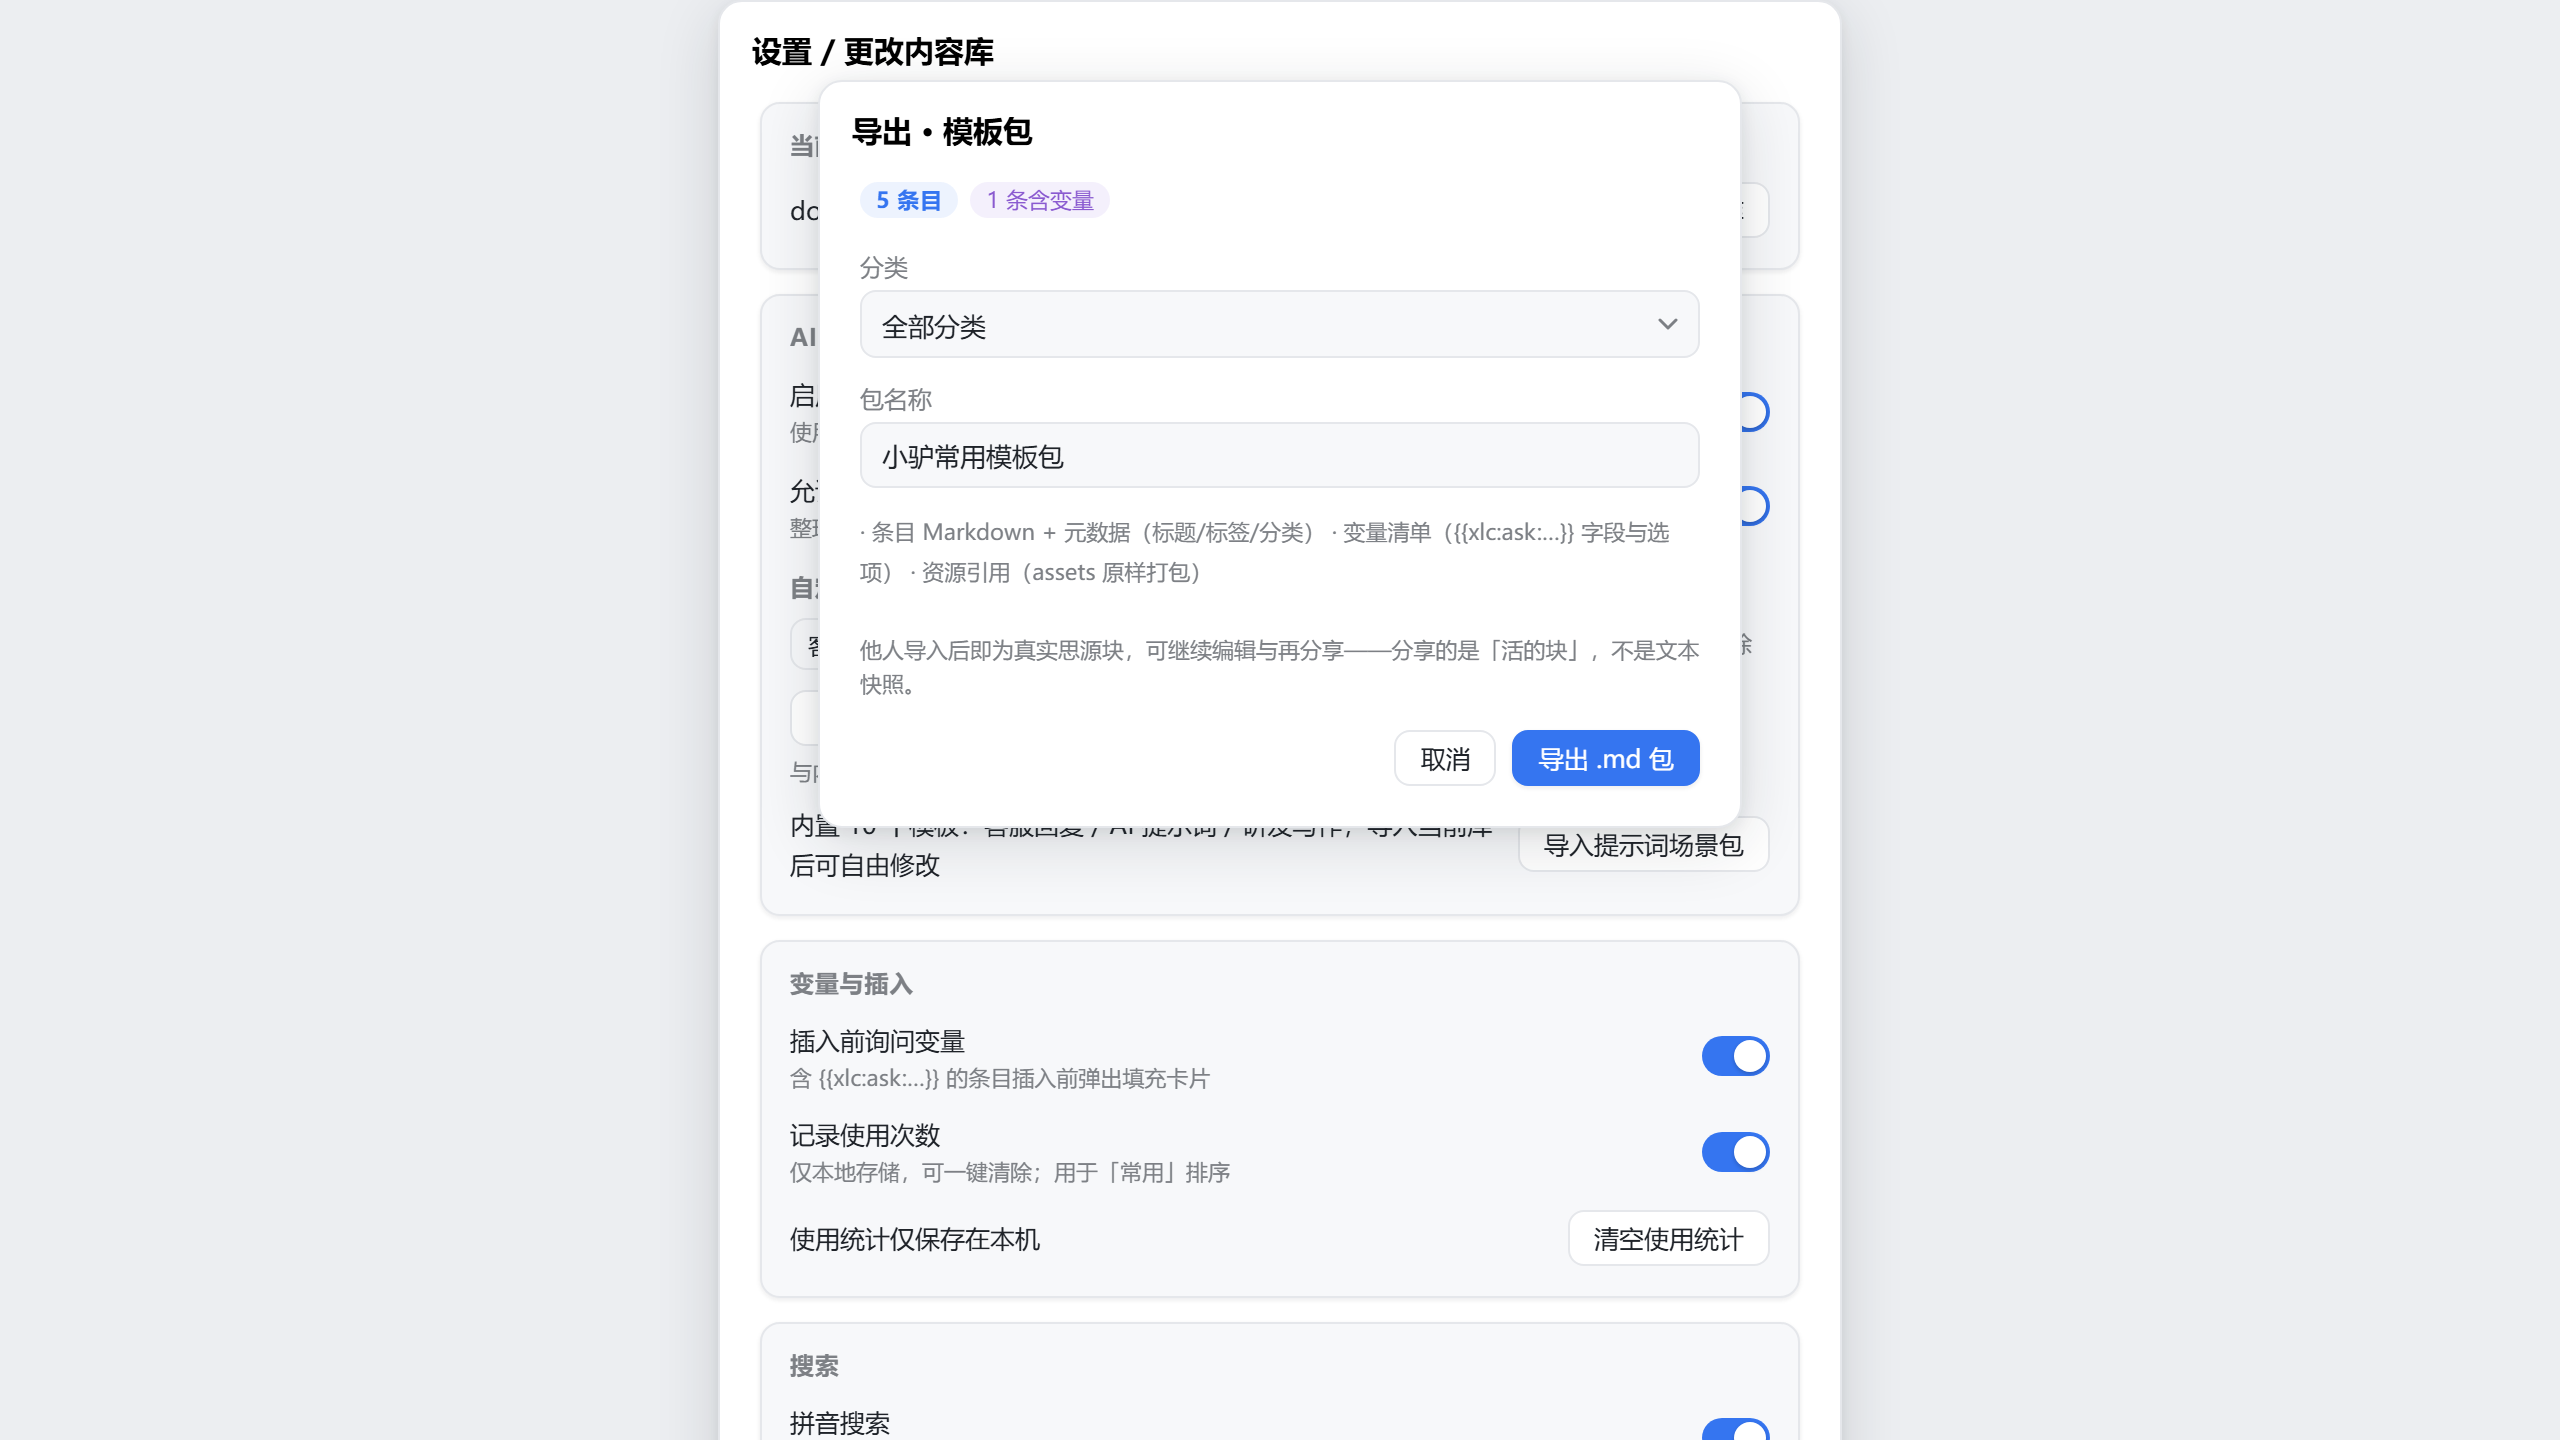
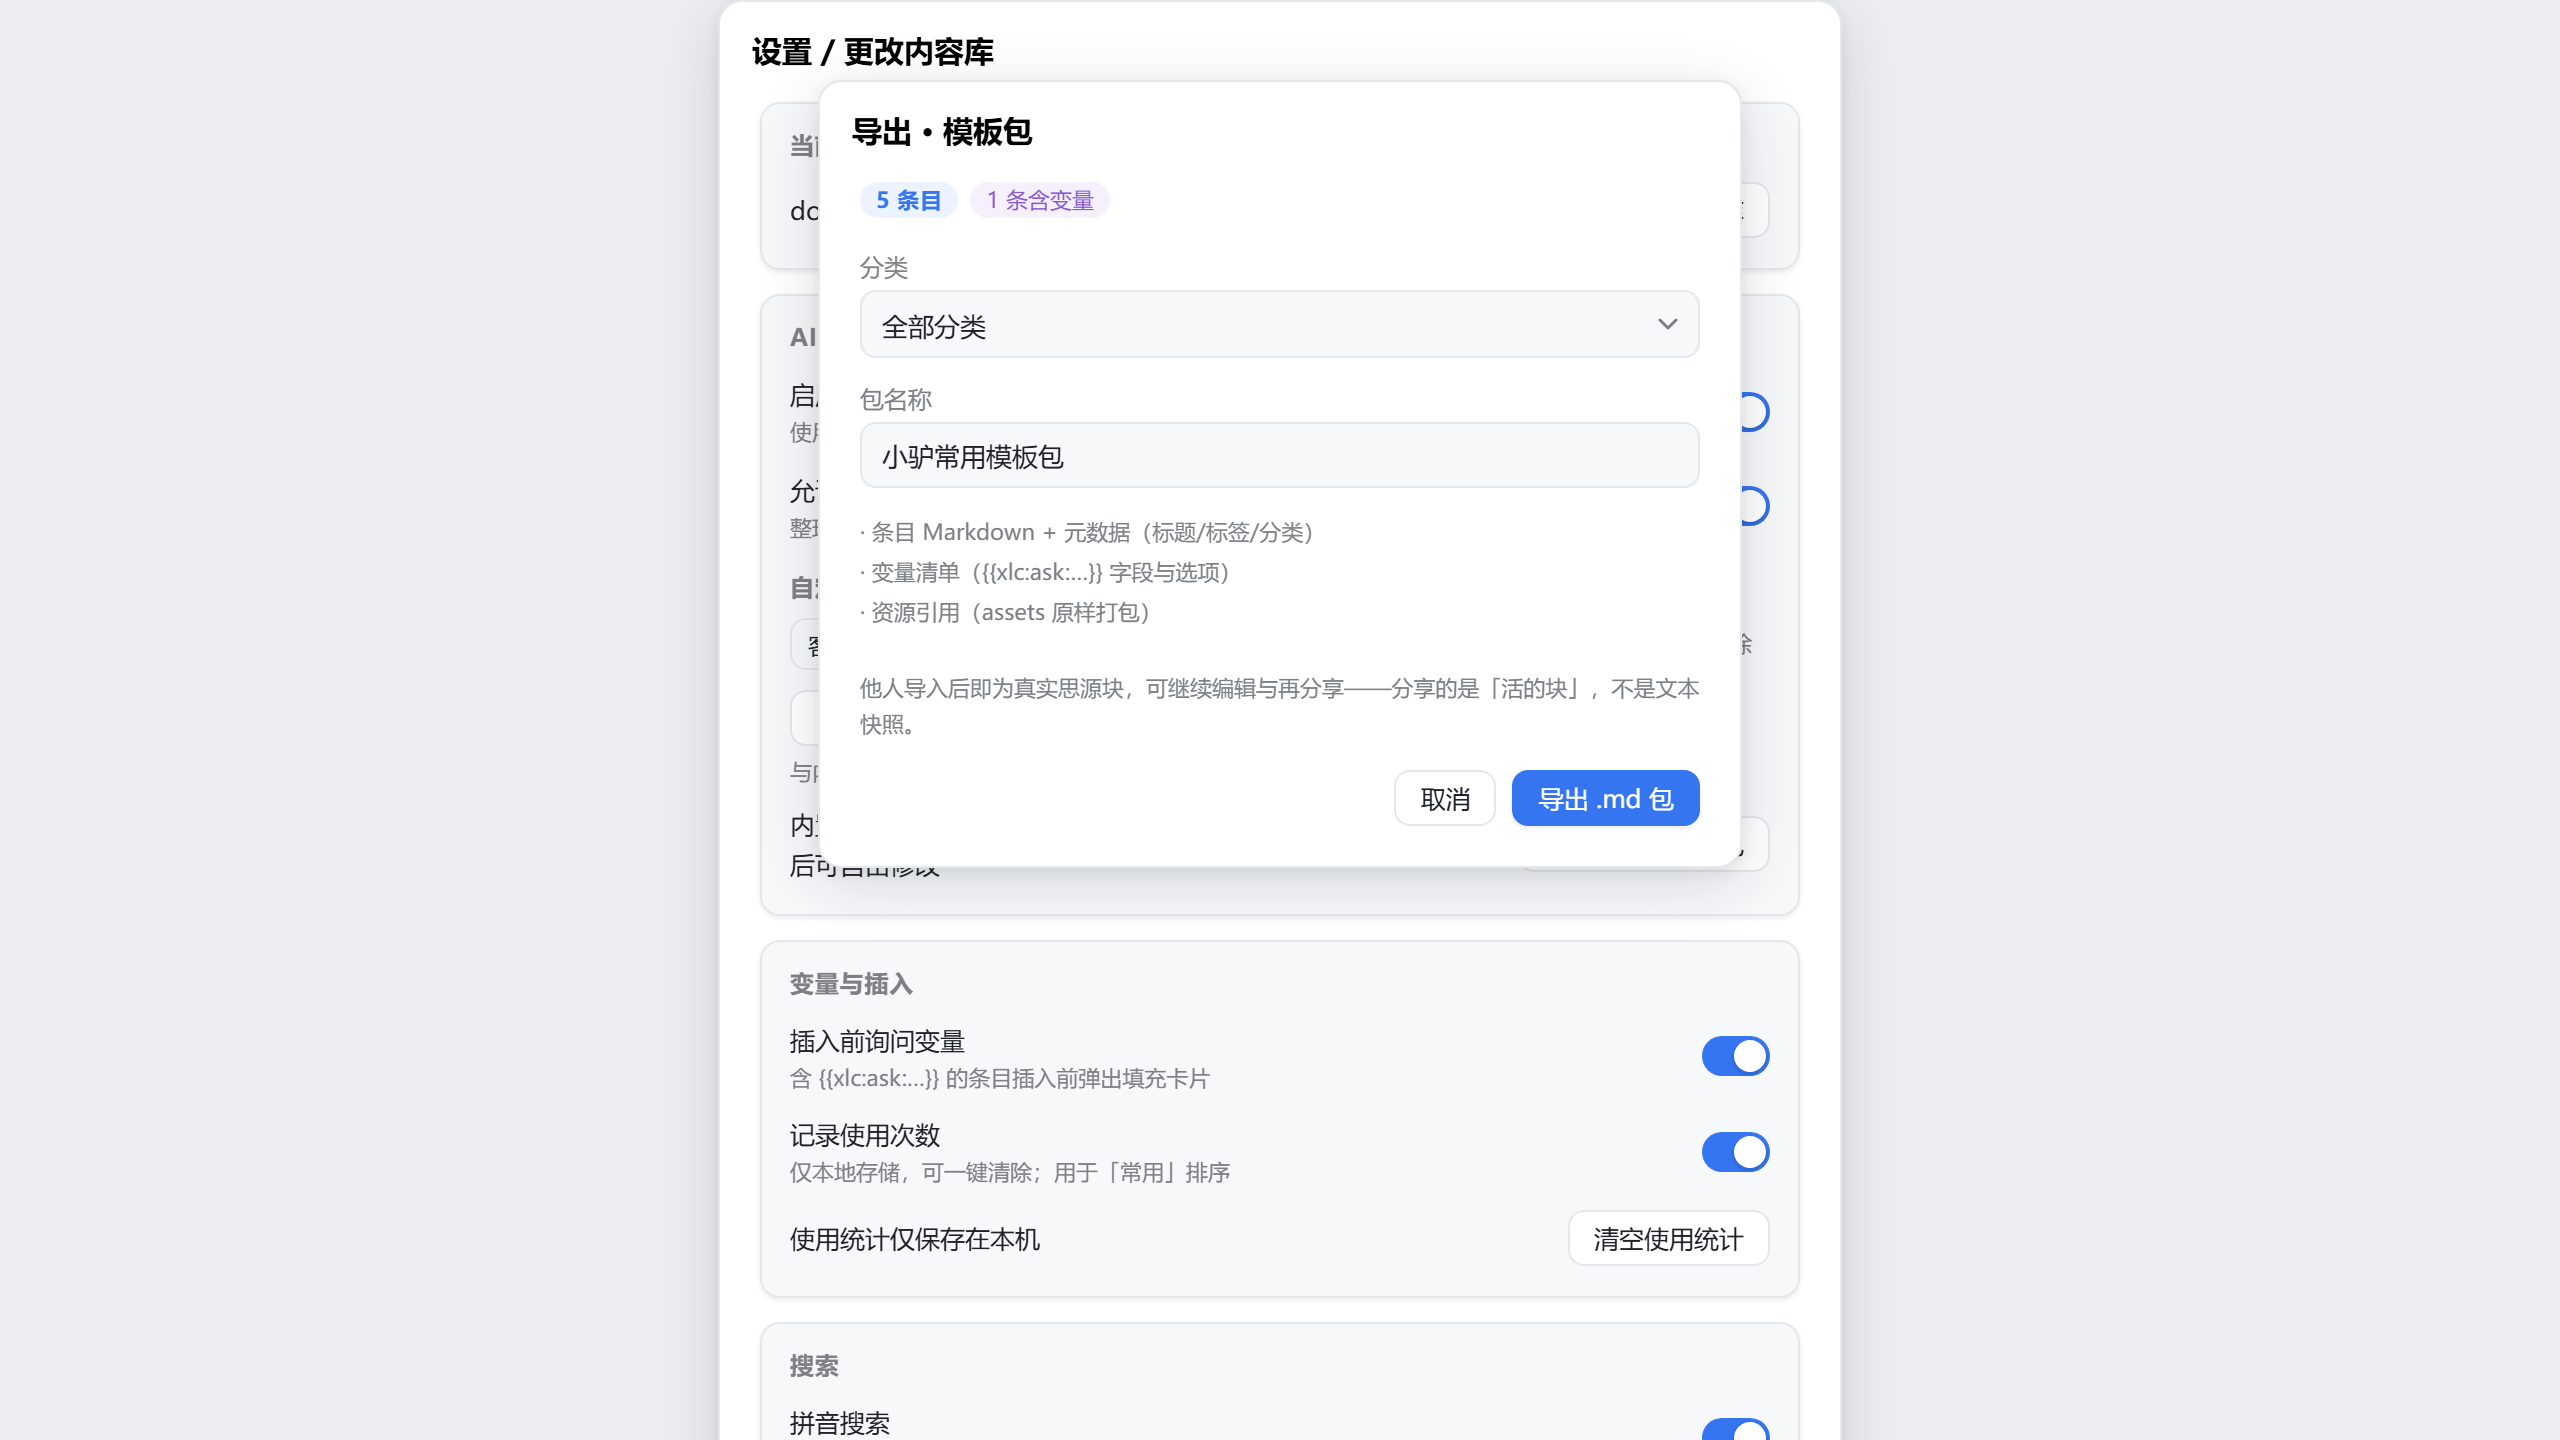
R111：细节轮——模板包清单换行修复 + 可执行徽标对齐原型 + Mac ⌘ 提示 + toast 长标题截断
- packContentsHint 补 pre-line：\n 三行清单不再塌成一行（对齐原型屏 8）
- 设置提供方「可执行」徽标 --text 绿 → --ai 蓝（原型屏 5 同款）
- kbd 快捷键提示随平台：Apple 显示 ⌘↩ 复制（行为本就支持 ⌘/Ctrl）
- 回执 toast 标题统一 shortTitle 48 字截断（512 字标题撑爆通知条；原文不受影响）

回归：tsc 0 错误、209/209 测试、15 组 UI smoke、密钥扫描全绿。

Changed region(s): [[0.3125, 0.375, 0.6875, 0.625], [0.5312, 0.3438, 0.6562, 0.375]]

diff --git a/docs/design/harness-bundle.js b/docs/design/harness-bundle.js
@@ -482,9 +482,10 @@
       search.appendChild(clearBtn);
       top.appendChild(search);
       if (!isMobile) {
+        const isApple = /Mac|iPhone|iPad/i.test(navigator.platform || "");
         const kbdRow = document.createElement("div");
         kbdRow.className = "xlc-kbdrow";
-        for (const hint of ["\u2191\u2193", "\u21A9 \u63D2\u5165", "\u2303\u21A9 \u590D\u5236", "\u23251-9 \u76F4\u8FBE", "Esc"]) {
+        for (const hint of ["\u2191\u2193", "\u21A9 \u63D2\u5165", isApple ? "\u2318\u21A9 \u590D\u5236" : "\u2303\u21A9 \u590D\u5236", "\u23251-9 \u76F4\u8FBE", "Esc"]) {
           const kbd = document.createElement("span");
           kbd.className = "xlc-kbd";
           kbd.textContent = hint;
@@ -2573,6 +2574,7 @@
     const contents = document.createElement("div");
     contents.className = "xlc-form-hint";
     contents.style.lineHeight = "1.8";
+    contents.style.whiteSpace = "pre-line";
     contents.textContent = t("packContentsHint");
     wrap.appendChild(contents);
     const trustHint = document.createElement("div");
@@ -2703,7 +2705,7 @@
         const row = document.createElement("div");
         row.className = "xlc-setting-row";
         const status = document.createElement("span");
-        status.className = "xlc-badge " + (p.runtime ? "xlc-badge--text" : "xlc-badge--warn");
+        status.className = "xlc-badge " + (p.runtime ? "xlc-badge--ai" : "xlc-badge--warn");
         status.textContent = p.runtime ? t("providerExecutable") : t("providerPendingReload");
         const cap = document.createElement("span");
         cap.textContent = `${p.record.displayName}\uFF08v${p.record.protocolVersion}\uFF09`;
@@ -3425,6 +3427,8 @@
   function isBlockRefTarget(blockId) {
     return /^\d{14}-[0-9a-z]{7}$/.test(blockId);
   }
+  var TOAST_TITLE_MAX = 48;
+  var shortTitle = (title) => title.length > TOAST_TITLE_MAX ? `${title.slice(0, TOAST_TITLE_MAX)}\u2026` : title;
   function classifyLinkTarget(href) {
     const h = (href != null ? href : "").trim();
     if (isSafeHttpUrl(h)) return { kind: "url", value: h };
@@ -3503,7 +3507,7 @@
         return;
       }
       if (dup) {
-        this.deps.notify("info", this.deps.t("quickCaptureDuplicate", dup.title));
+        this.deps.notify("info", this.deps.t("quickCaptureDuplicate", shortTitle(dup.title)));
         return;
       }
       const firstLine = (_a = content.split(/\r?\n/).map((line) => line.trim()).find(Boolean)) != null ? _a : content;
@@ -3519,7 +3523,7 @@
         return;
       }
       if (created.ok) {
-        this.deps.notify("info", this.deps.t("saved", created.message));
+        this.deps.notify("info", this.deps.t("saved", shortTitle(created.message)));
       } else {
         this.deps.notify("error", created.message);
       }
@@ -3856,7 +3860,7 @@
           }).then((result) => {
             saving = false;
             if (result.ok) {
-              this.deps.notify("info", t("saved", result.message));
+              this.deps.notify("info", t("saved", shortTitle(result.message)));
               closed = true;
               dialog.destroy();
             } else {

diff --git a/src/index.ts b/src/index.ts
@@ -36,6 +36,10 @@ import type {TransformKind} from "./service/ai";
 
 type TFn = (key: string, ...args: string[]) => string;
 
+/** 回执 toast 的标题展示截断：标题最长 512 字，原样进通知条会撑爆全屏（原文不受影响） */
+const TOAST_TITLE_MAX = 48;
+const shortTitle = (title: string): string => (title.length > TOAST_TITLE_MAX ? `${title.slice(0, TOAST_TITLE_MAX)}…` : title);
+
 /** 将思源官方泛型传输函数收窄为内核客户端需要的统一信封。 */
 const hostSyncPost: SyncPost = async (url, data) => {
     const raw = await fetchSyncPost(url, data);
@@ -648,7 +652,7 @@ export default class XiaolvCommonPlugin extends Plugin {
                     source: {...src.source},
                 });
                 if (created.ok) {
-                    this.notify("info", this.i18nFn()("duplicated", created.data.item.title));
+                    this.notify("info", this.i18nFn()("duplicated", shortTitle(created.data.item.title)));
                 } else {
                     this.notify("error", created.message);
                 }
@@ -927,8 +931,8 @@ export default class XiaolvCommonPlugin extends Plugin {
         const t = this.i18nFn();
         if (pending.includes("mobile-insert-unverified")) return t("insertPendingMobile");
         if (code === "no-editor-copied") return t("insertNoEditor");
-        if (code === "copied") return t("copied", title);
-        if (code === "inserted") return t("inserted", title);
+        if (code === "copied") return t("copied", shortTitle(title));
+        if (code === "inserted") return t("inserted", shortTitle(title));
         if (pending.includes("bitmap-clipboard-unverified")) return t("copiedRichPending");
         return code;
     }
@@ -1082,7 +1086,7 @@ export default class XiaolvCommonPlugin extends Plugin {
             }).then((result) => {
                 if (result.ok) {
                     this.previewCache.clear();
-                    this.notify("info", t("updated", result.data.item.title));
+                    this.notify("info", t("updated", shortTitle(result.data.item.title)));
                     dialog.destroy();
                 } else {
                     saving = false;

diff --git a/src/ui/capture.ts b/src/ui/capture.ts
@@ -10,6 +10,10 @@ export function isBlockRefTarget(blockId: string): boolean {
     return /^\d{14}-[0-9a-z]{7}$/.test(blockId);
 }
 
+/** 回执 toast 的标题展示截断（标题最长 512 字；原文不受影响） */
+const TOAST_TITLE_MAX = 48;
+const shortTitle = (title: string): string => (title.length > TOAST_TITLE_MAX ? `${title.slice(0, TOAST_TITLE_MAX)}…` : title);
+
 /** 链接目标分类：仅接受 http(s) 外链与 assets/ 资源；其余（siyuan:// 等）返回 null */
 export function classifyLinkTarget(href: string): {kind: "url" | "asset"; value: string} | null {
     const h = (href ?? "").trim();
@@ -115,7 +119,7 @@ export class CaptureDialog {
             return;
         }
         if (dup) {
-            this.deps.notify("info", this.deps.t("quickCaptureDuplicate", dup.title));
+            this.deps.notify("info", this.deps.t("quickCaptureDuplicate", shortTitle(dup.title)));
             return;
         }
         const firstLine = content.split(/\r?\n/).map((line) => line.trim()).find(Boolean) ?? content;
@@ -131,7 +135,7 @@ export class CaptureDialog {
             return;
         }
         if (created.ok) {
-            this.deps.notify("info", this.deps.t("saved", created.message));
+            this.deps.notify("info", this.deps.t("saved", shortTitle(created.message)));
         } else {
             this.deps.notify("error", created.message);
         }
@@ -492,7 +496,7 @@ export class CaptureDialog {
                 }).then((result) => {
                     saving = false;
                     if (result.ok) {
-                        this.deps.notify("info", t("saved", result.message));
+                        this.deps.notify("info", t("saved", shortTitle(result.message)));
                         closed = true;
                         dialog.destroy();
                     } else {

diff --git a/src/ui/settings-dialog.ts b/src/ui/settings-dialog.ts
@@ -225,6 +225,8 @@ async function openPackExportDialog(ctx: SettingsUiContext): Promise<void> {
     const contents = document.createElement("div");
     contents.className = "xlc-form-hint";
     contents.style.lineHeight = "1.8";
+    // 清单含 \n 三行结构：pre-line 才能换行（默认 div 会塌成一行，R111 修）
+    contents.style.whiteSpace = "pre-line";
     contents.textContent = t("packContentsHint");
     wrap.appendChild(contents);
     const trustHint = document.createElement("div");
@@ -365,7 +367,8 @@ function buildProviderSection(ctx: SettingsUiContext, root: HTMLElement): void {
             const row = document.createElement("div");
             row.className = "xlc-setting-row";
             const status = document.createElement("span");
-            status.className = "xlc-badge " + (p.runtime ? "xlc-badge--text" : "xlc-badge--warn");
+            // 可执行=AI 蓝（原型屏 5 同款）；待重载=warn 红保持
+            status.className = "xlc-badge " + (p.runtime ? "xlc-badge--ai" : "xlc-badge--warn");
             status.textContent = p.runtime ? t("providerExecutable") : t("providerPendingReload");
             const cap = document.createElement("span");
             cap.textContent = `${p.record.displayName}（v${p.record.protocolVersion}）`;

diff --git a/src/ui/dialog.ts b/src/ui/dialog.ts
@@ -208,11 +208,12 @@ export class CommonSearchDialog {
         search.appendChild(input);
         search.appendChild(clearBtn);
         top.appendChild(search);
-        // 头部快捷键提示（桌面；原型头部右侧 kbd chips）
+        // 头部快捷键提示（桌面；原型头部右侧 kbd chips；⌃/⌘ 随平台）
         if (!isMobile) {
+            const isApple = /Mac|iPhone|iPad/i.test(navigator.platform || "");
             const kbdRow = document.createElement("div");
             kbdRow.className = "xlc-kbdrow";
-            for (const hint of ["↑↓", "↩ 插入", "⌃↩ 复制", "⌥1-9 直达", "Esc"]) {
+            for (const hint of ["↑↓", "↩ 插入", isApple ? "⌘↩ 复制" : "⌃↩ 复制", "⌥1-9 直达", "Esc"]) {
                 const kbd = document.createElement("span");
                 kbd.className = "xlc-kbd";
                 kbd.textContent = hint;

diff --git a/docs/dev-plan-2026-10-06.md b/docs/dev-plan-2026-10-06.md
@@ -1200,3 +1200,11 @@
 - **排序直选菜单证据**：补 production-sort-menu-light.png（R108 功能此前无视觉证据）；顺修 harness 桩缺 `sort` 键导致的证据图裸键名。
 - 值校验（变量填充卡下拉字段输入非选项值）经查**不做**：填充层本就允许自由值，选项只是输入辅助——加提示反而说谎。
 - 回归：tsc 0 错误、209/209 测试、16 张证据截图、密钥扫描全绿。版本未动。
+
+## R111 轮（2026-10-08 细节轮：文案渲染与平台适配）
+
+- **模板包清单换行修复**：`packContentsHint` 含 \n 三行结构，div 默认 white-space 塌成一行——补 `pre-line`，对齐原型屏 8 三行清单（证据图复核）。
+- **提供方「可执行」徽标对齐原型**：`--text` 绿 → `--ai` 蓝（原型屏 5 同款）；待重载 warn 保持。
+- **平台感知快捷键提示**：Apple 平台 kbd 显示「⌘↩ 复制」，其余「⌃↩ 复制」（键盘行为本就两者通吃，仅提示文案分平台）。
+- **toast 长标题截断**：标题最长 512 字，原样拼进「已插入/已复制/已保存/已更新/已创建副本/同文提示」会撑爆通知条——统一 `shortTitle`（48 字截断 + …），原文不受影响；index.ts（receiptText/updated/duplicated）与 capture.ts（saved ×2/同文提示）全覆盖。
+- 回归：tsc 0 错误、209/209 测试、15 组 UI smoke、密钥扫描全绿；pack-export 证据图复核三行清单。版本未动。
